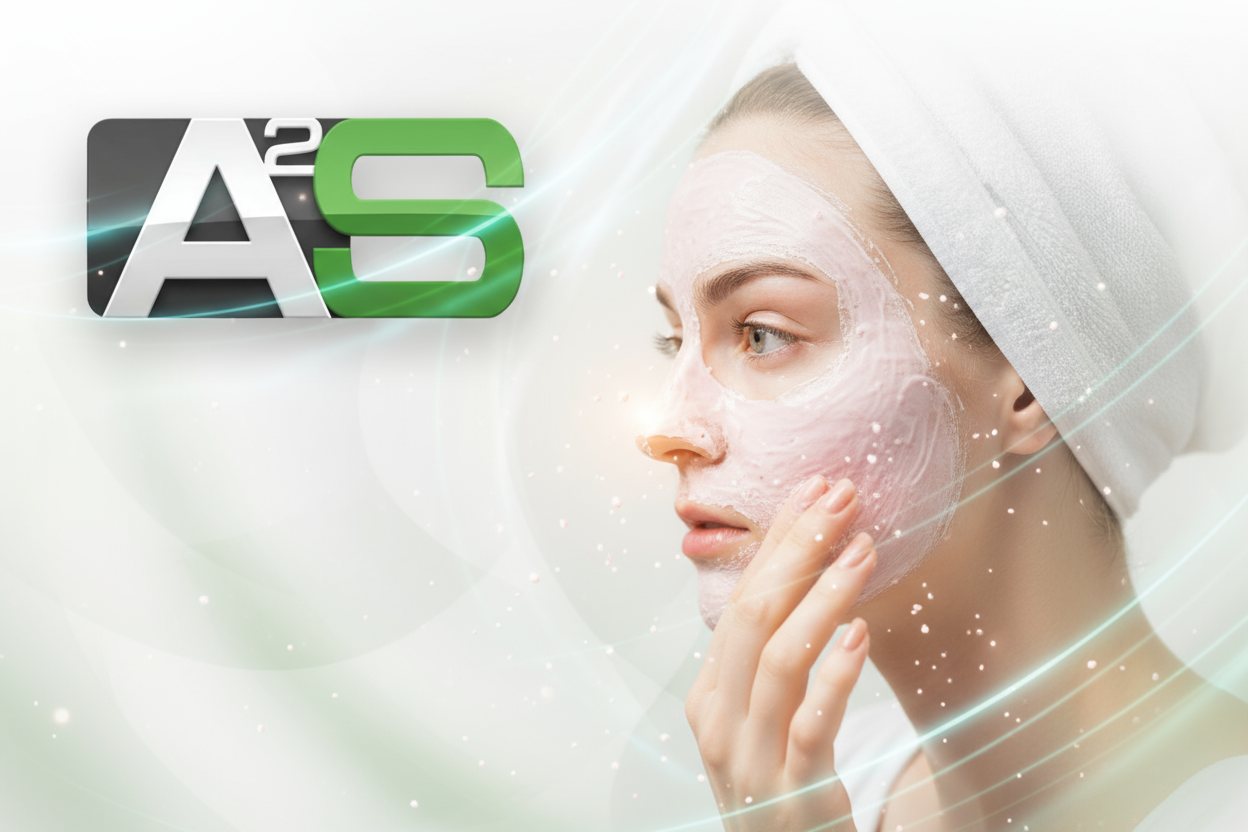
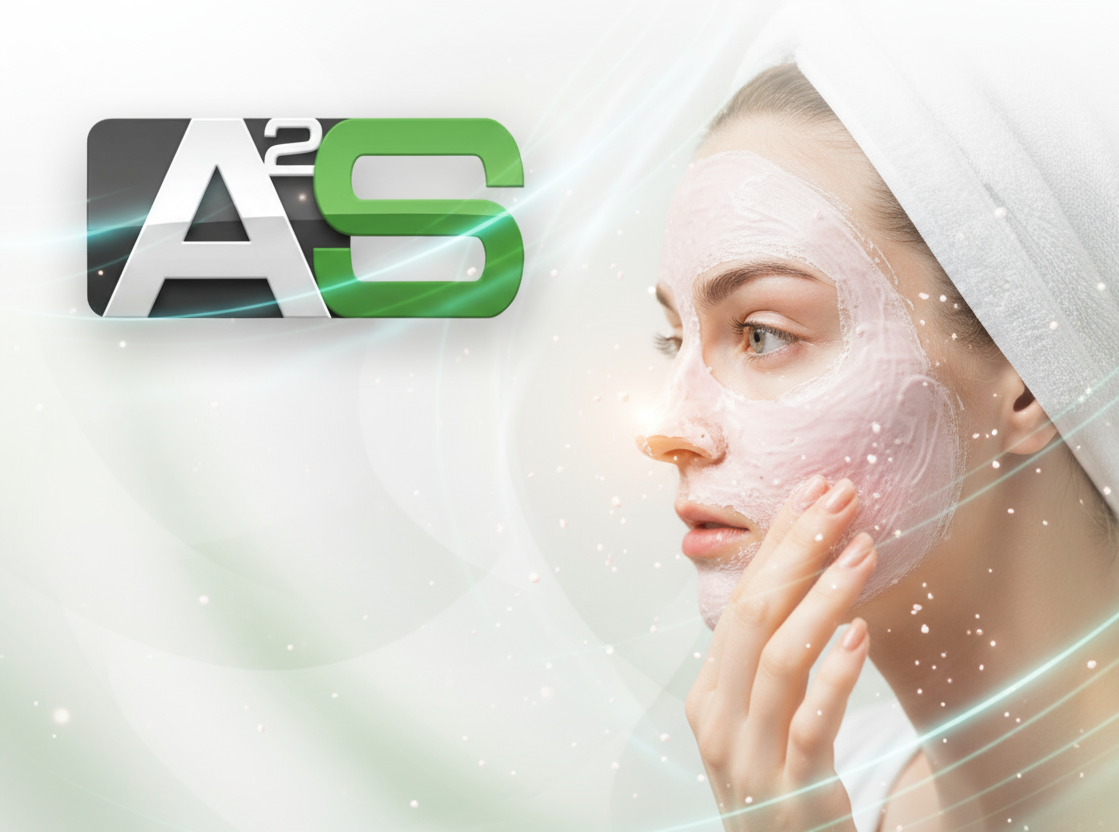
changement de photos dans l'univers santé & beauté et partenariat

diff --git a/index.html b/index.html
@@ -599,7 +599,7 @@
         </article>
         
         <article class="gallery-item rounded-xl overflow-hidden shadow-lg">
-          <img src="images/partenariat.jpg" 
+          <img src="images/partenariat.png" 
                alt="Nos marques partenaires innovantes" 
                class="w-full h-64 object-cover"
                loading="lazy">
